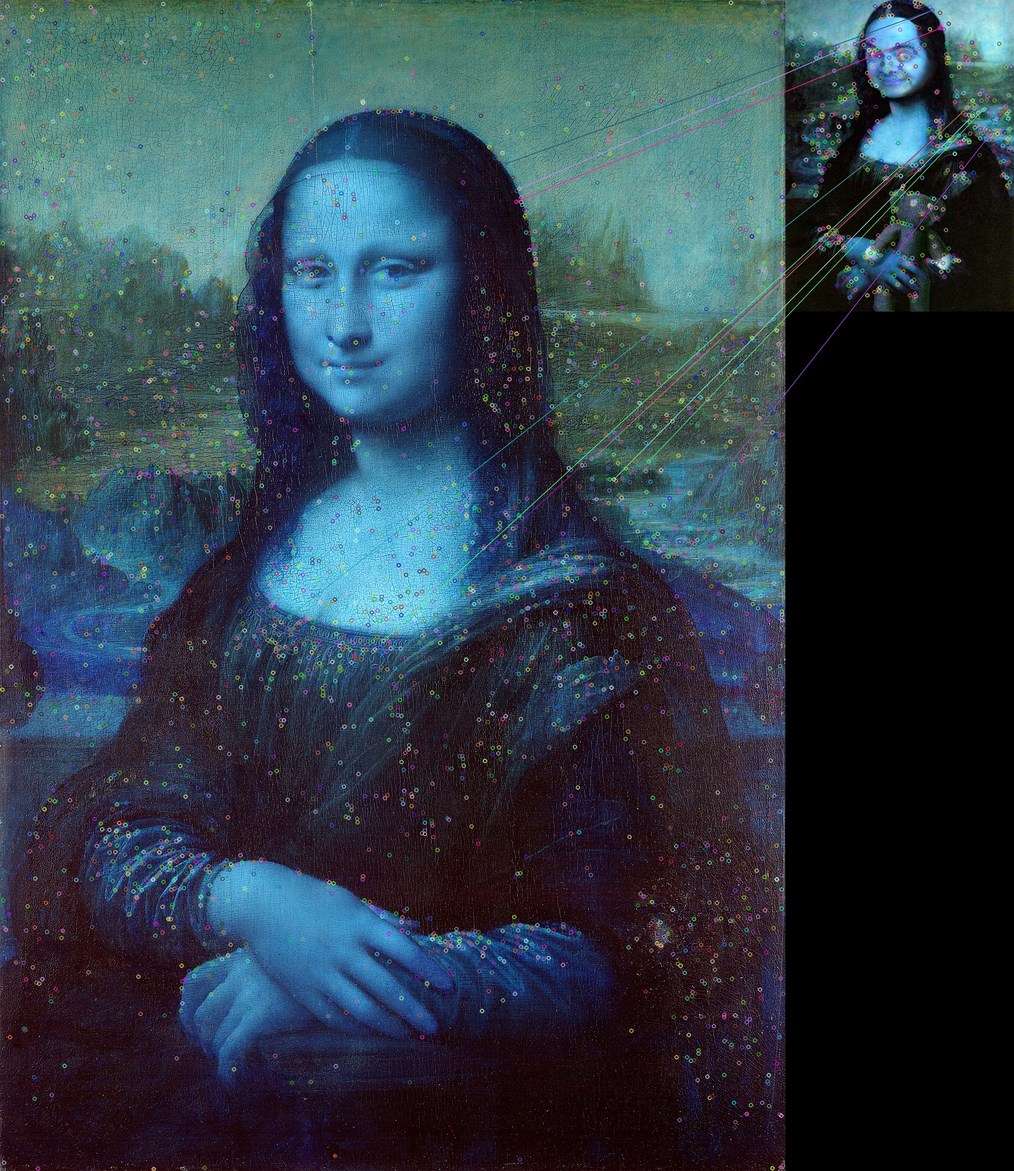
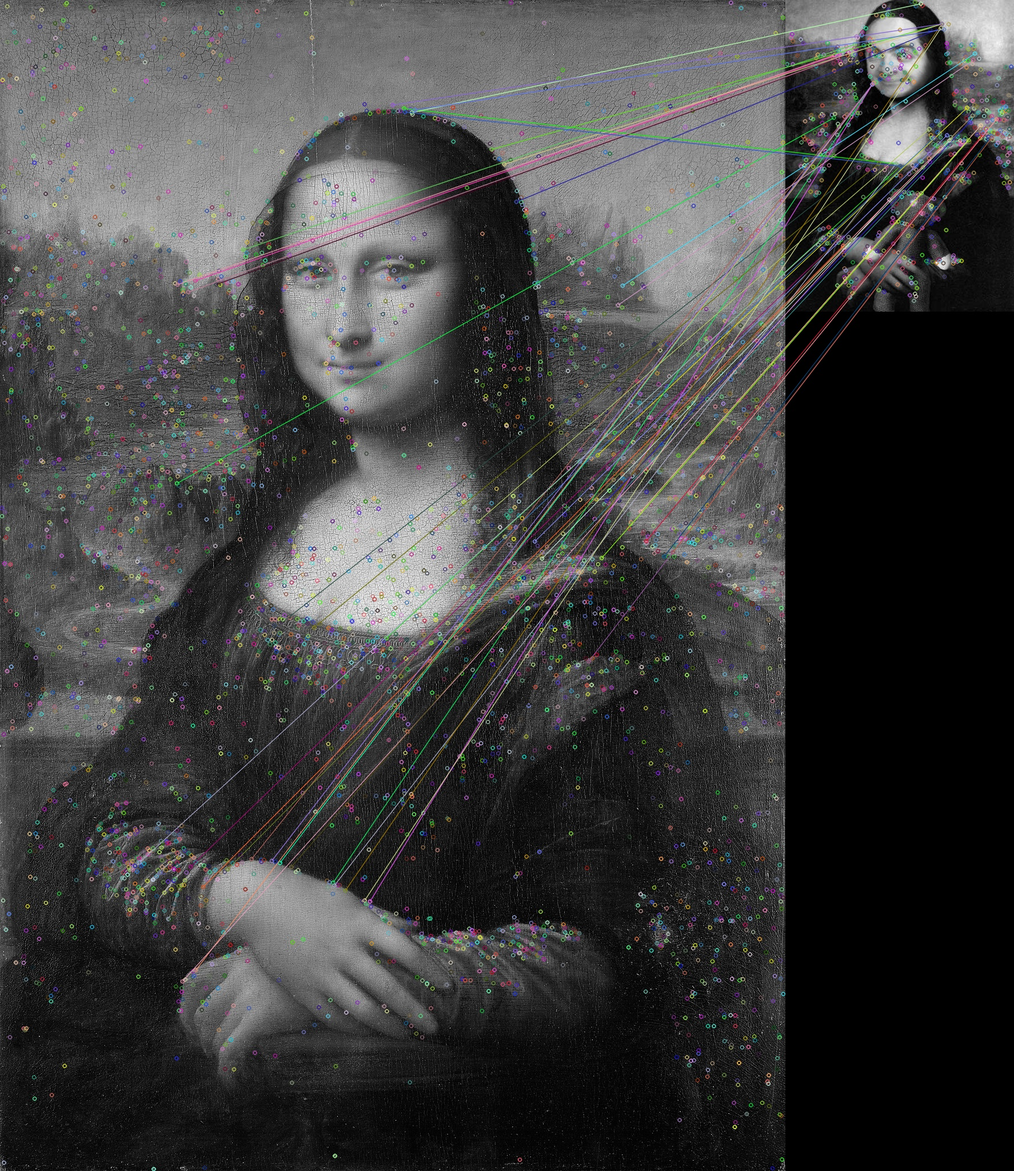
update footer, grayscale and texts

diff --git a/templates/comparison.html b/templates/comparison.html
@@ -5,7 +5,7 @@
     <link rel="stylesheet" href="{{ url_for('static', filename='css/standard.css') }}">
     <link rel="stylesheet" href="{{ url_for('static', filename='css/comparison.css') }}">
     <link href="https://fonts.googleapis.com/css2?family=Libre+Franklin:wght@300&family=Rubik&display=swap" rel="stylesheet">
-
+    <link rel="stylesheet" href="https://maxcdn.bootstrapcdn.com/font-awesome/4.4.0/css/font-awesome.min.css">
     <title>Comparison</title>
 </head>
 <body>
@@ -191,7 +191,7 @@
                         matching them between the two images.</p>
                     <p>Popular feature extraction algorithms include Scale-Invariant Feature Transform (SIFT),
                         Speeded-Up Robust Features (SURF), and Oriented FAST and Rotated BRIEF (ORB).</p>
-                    <p>The similarity score is based on the number of matches, in this case it is the match count and
+                    <p>The similarity score is based on the number of matches between the two images, in this case it is the match count and
                         here SIFT was used due to its high accuracy.</p>
                 </div>
             </div>
@@ -239,9 +239,9 @@
                         represents the amount of mutual information or shared information between the two images. </p>
                     <p>Mutual Information is a measure of statistical dependence that quantifies how much knowing the
                         pixel intensities in one image reduces the uncertainty about the pixel intensities in the other image.</p>
-                    <p>the obtained MI score can be interpreted as the level of similarity or similarity between the two
-                        images based on their pixel intensities, where a higher MI score indicates a higher level of
-                        shared information and therefore suggests a greater degree of similarity between the images.</p>
+                    <p>The obtained MI score can be interpreted as the level of similarity between the two images
+                        based on their pixel intensities, where a higher MI score indicates a higher level of shared
+                        information and therefore suggests a greater degree of similarity between the images.</p>
                 </div>
             </div>
         </div>
@@ -252,7 +252,22 @@
     </main>
 
     <footer>
-    
+        <div class="footer_links">
+            <a class="footer_button" href="https://www.linkedin.com/in/guilherme-pguimar%C3%A3es/">
+                <svg xmlns="http://www.w3.org/2000/svg" viewBox="0 0 448 512"><path d="M416 32H31.9C14.3 32 0 46.5 0 64.3v383.4C0 465.5 14.3 480 31.9 480H416c17.6 0 32-14.5 32-32.3V64.3c0-17.8-14.4-32.3-32-32.3zM135.4 416H69V202.2h66.5V416zm-33.2-243c-21.3 0-38.5-17.3-38.5-38.5S80.9 96 102.2 96c21.2 0 38.5 17.3 38.5 38.5 0 21.3-17.2 38.5-38.5 38.5zm282.1 243h-66.4V312c0-24.8-.5-56.7-34.5-56.7-34.6 0-39.9 27-39.9 54.9V416h-66.4V202.2h63.7v29.2h.9c8.9-16.8 30.6-34.5 62.9-34.5 67.2 0 79.7 44.3 79.7 101.9V416z"/></svg>
+                
+
+            </a>
+            
+            <a target="_blank" class="footer_button" href="https://github.com/guilherme-pg">
+                <svg class="aaa" xmlns="http://www.w3.org/2000/svg" viewBox="0 0 496 512"><path
+                        d="M165.9 397.4c0 2-2.3 3.6-5.2 3.6-3.3.3-5.6-1.3-5.6-3.6 0-2 2.3-3.6 5.2-3.6 3-.3 5.6 1.3 5.6 3.6zm-31.1-4.5c-.7 2 1.3 4.3 4.3 4.9 2.6 1 5.6 0 6.2-2s-1.3-4.3-4.3-5.2c-2.6-.7-5.5.3-6.2 2.3zm44.2-1.7c-2.9.7-4.9 2.6-4.6 4.9.3 2 2.9 3.3 5.9 2.6 2.9-.7 4.9-2.6 4.6-4.6-.3-1.9-3-3.2-5.9-2.9zM244.8 8C106.1 8 0 113.3 0 252c0 110.9 69.8 205.8 169.5 239.2 12.8 2.3 17.3-5.6 17.3-12.1 0-6.2-.3-40.4-.3-61.4 0 0-70 15-84.7-29.8 0 0-11.4-29.1-27.8-36.6 0 0-22.9-15.7 1.6-15.4 0 0 24.9 2 38.6 25.8 21.9 38.6 58.6 27.5 72.9 20.9 2.3-16 8.8-27.1 16-33.7-55.9-6.2-112.3-14.3-112.3-110.5 0-27.5 7.6-41.3 23.6-58.9-2.6-6.5-11.1-33.3 2.6-67.9 20.9-6.5 69 27 69 27 20-5.6 41.5-8.5 62.8-8.5s42.8 2.9 62.8 8.5c0 0 48.1-33.6 69-27 13.7 34.7 5.2 61.4 2.6 67.9 16 17.7 25.8 31.5 25.8 58.9 0 96.5-58.9 104.2-114.8 110.5 9.2 7.9 17 22.9 17 46.4 0 33.7-.3 75.4-.3 83.6 0 6.5 4.6 14.4 17.3 12.1C428.2 457.8 496 362.9 496 252 496 113.3 383.5 8 244.8 8zM97.2 352.9c-1.3 1-1 3.3.7 5.2 1.6 1.6 3.9 2.3 5.2 1 1.3-1 1-3.3-.7-5.2-1.6-1.6-3.9-2.3-5.2-1zm-10.8-8.1c-.7 1.3.3 2.9 2.3 3.9 1.6 1 3.6.7 4.3-.7.7-1.3-.3-2.9-2.3-3.9-2-.6-3.6-.3-4.3.7zm32.4 35.6c-1.6 1.3-1 4.3 1.3 6.2 2.3 2.3 5.2 2.6 6.5 1 1.3-1.3.7-4.3-1.3-6.2-2.2-2.3-5.2-2.6-6.5-1zm-11.4-14.7c-1.6 1-1.6 3.6 0 5.9 1.6 2.3 4.3 3.3 5.6 2.3 1.6-1.3 1.6-3.9 0-6.2-1.4-2.3-4-3.3-5.6-2z"/></svg>
+            </a>
+        </div>
+        <div>
+            <p>All rights reserved TM ©</p>
+        </div>
+        
     </footer>
 </body>
 </html>

diff --git a/templates/home.html b/templates/home.html
@@ -4,10 +4,8 @@
     <meta charset="utf-8">
     <link rel="stylesheet" href="{{ url_for('static', filename='css/standard.css') }}">
     <link rel="stylesheet" href="{{ url_for('static', filename='css/home.css') }}">
-
+    <link href="https://fonts.googleapis.com/css2?family=Libre+Franklin:wght@300&family=Rubik&display=swap" rel="stylesheet">
     <link rel="stylesheet" href="https://maxcdn.bootstrapcdn.com/font-awesome/4.4.0/css/font-awesome.min.css">
-
-    
     <title>Image Comparator</title>
 </head>
 <body>
@@ -32,6 +30,7 @@
         <div class="main_column">
             
             <h1>Image Comparer</h1>
+            <p>Select two images to evaluate the degree of similarity and dissimilarity between them.</p>
     
             <form class="drop_general_zone" id="imageForm" method="POST" action="/process_form" enctype="multipart/form-data">
     
@@ -68,13 +67,13 @@
     <footer>
         <div class="footer_links">
             <a class="footer_button" href="https://www.linkedin.com/in/guilherme-pguimar%C3%A3es/">
-                <svg xmlns="http://www.w3.org/2000/svg" height="40px" viewBox="0 0 448 512"><style>svg{fill:#fafad2}</style><path d="M416 32H31.9C14.3 32 0 46.5 0 64.3v383.4C0 465.5 14.3 480 31.9 480H416c17.6 0 32-14.5 32-32.3V64.3c0-17.8-14.4-32.3-32-32.3zM135.4 416H69V202.2h66.5V416zm-33.2-243c-21.3 0-38.5-17.3-38.5-38.5S80.9 96 102.2 96c21.2 0 38.5 17.3 38.5 38.5 0 21.3-17.2 38.5-38.5 38.5zm282.1 243h-66.4V312c0-24.8-.5-56.7-34.5-56.7-34.6 0-39.9 27-39.9 54.9V416h-66.4V202.2h63.7v29.2h.9c8.9-16.8 30.6-34.5 62.9-34.5 67.2 0 79.7 44.3 79.7 101.9V416z"/></svg>
+                <svg xmlns="http://www.w3.org/2000/svg" viewBox="0 0 448 512"><path d="M416 32H31.9C14.3 32 0 46.5 0 64.3v383.4C0 465.5 14.3 480 31.9 480H416c17.6 0 32-14.5 32-32.3V64.3c0-17.8-14.4-32.3-32-32.3zM135.4 416H69V202.2h66.5V416zm-33.2-243c-21.3 0-38.5-17.3-38.5-38.5S80.9 96 102.2 96c21.2 0 38.5 17.3 38.5 38.5 0 21.3-17.2 38.5-38.5 38.5zm282.1 243h-66.4V312c0-24.8-.5-56.7-34.5-56.7-34.6 0-39.9 27-39.9 54.9V416h-66.4V202.2h63.7v29.2h.9c8.9-16.8 30.6-34.5 62.9-34.5 67.2 0 79.7 44.3 79.7 101.9V416z"/></svg>
                 
 
             </a>
             
             <a target="_blank" class="footer_button" href="https://github.com/guilherme-pg">
-                <svg xmlns="http://www.w3.org/2000/svg" height="40px" viewBox="0 0 496 512"><style>svg{fill:#fafad2}</style><path
+                <svg class="aaa" xmlns="http://www.w3.org/2000/svg" viewBox="0 0 496 512"><path
                         d="M165.9 397.4c0 2-2.3 3.6-5.2 3.6-3.3.3-5.6-1.3-5.6-3.6 0-2 2.3-3.6 5.2-3.6 3-.3 5.6 1.3 5.6 3.6zm-31.1-4.5c-.7 2 1.3 4.3 4.3 4.9 2.6 1 5.6 0 6.2-2s-1.3-4.3-4.3-5.2c-2.6-.7-5.5.3-6.2 2.3zm44.2-1.7c-2.9.7-4.9 2.6-4.6 4.9.3 2 2.9 3.3 5.9 2.6 2.9-.7 4.9-2.6 4.6-4.6-.3-1.9-3-3.2-5.9-2.9zM244.8 8C106.1 8 0 113.3 0 252c0 110.9 69.8 205.8 169.5 239.2 12.8 2.3 17.3-5.6 17.3-12.1 0-6.2-.3-40.4-.3-61.4 0 0-70 15-84.7-29.8 0 0-11.4-29.1-27.8-36.6 0 0-22.9-15.7 1.6-15.4 0 0 24.9 2 38.6 25.8 21.9 38.6 58.6 27.5 72.9 20.9 2.3-16 8.8-27.1 16-33.7-55.9-6.2-112.3-14.3-112.3-110.5 0-27.5 7.6-41.3 23.6-58.9-2.6-6.5-11.1-33.3 2.6-67.9 20.9-6.5 69 27 69 27 20-5.6 41.5-8.5 62.8-8.5s42.8 2.9 62.8 8.5c0 0 48.1-33.6 69-27 13.7 34.7 5.2 61.4 2.6 67.9 16 17.7 25.8 31.5 25.8 58.9 0 96.5-58.9 104.2-114.8 110.5 9.2 7.9 17 22.9 17 46.4 0 33.7-.3 75.4-.3 83.6 0 6.5 4.6 14.4 17.3 12.1C428.2 457.8 496 362.9 496 252 496 113.3 383.5 8 244.8 8zM97.2 352.9c-1.3 1-1 3.3.7 5.2 1.6 1.6 3.9 2.3 5.2 1 1.3-1 1-3.3-.7-5.2-1.6-1.6-3.9-2.3-5.2-1zm-10.8-8.1c-.7 1.3.3 2.9 2.3 3.9 1.6 1 3.6.7 4.3-.7.7-1.3-.3-2.9-2.3-3.9-2-.6-3.6-.3-4.3.7zm32.4 35.6c-1.6 1.3-1 4.3 1.3 6.2 2.3 2.3 5.2 2.6 6.5 1 1.3-1.3.7-4.3-1.3-6.2-2.2-2.3-5.2-2.6-6.5-1zm-11.4-14.7c-1.6 1-1.6 3.6 0 5.9 1.6 2.3 4.3 3.3 5.6 2.3 1.6-1.3 1.6-3.9 0-6.2-1.4-2.3-4-3.3-5.6-2z"/></svg>
             </a>
         </div>

diff --git a/static/css/standard.css b/static/css/standard.css
@@ -45,8 +45,17 @@ footer {
     width: 100%;
     height: 70%;
 }
-.footer_links a {
-    margin: 0 30px 0 30px;
+.footer_button {
+    margin: 30px 30px 0 30px;
+}
+.footer_links svg {
+    fill: #FAFAD2;
+    height: 40px;
+    transition: text-shadow 1s;
+}
+.footer_links svg:active,
+.footer_links svg:hover  {
+    filter: drop-shadow(0 0 1px #FAFAD2);
 }
 footer p {
     color: #FAFAD2;

diff --git a/static/css/home.css b/static/css/home.css
@@ -3,6 +3,10 @@
 }
 h1 {
     color: #620e1f;
+    margin-bottom: 20px;
+}
+p {
+    color: #620e1f;
 }
 
 .drop_general_zone {

diff --git a/image_comparator.py b/image_comparator.py
@@ -94,6 +94,9 @@ def get_feature_em(img_1, img_2, file_name):
     img_1 = np.array(img_1)
     img_2 = np.array(img_2)
 
+    img_1 = cv2.cvtColor(img_1, cv2.COLOR_RGB2GRAY)
+    img_2 = cv2.cvtColor(img_2, cv2.COLOR_RGB2GRAY)
+
     # Detect and compute keypoints and descriptors for both images
     keypoints1, descriptors1 = sift.detectAndCompute(img_1, None)
     keypoints2, descriptors2 = sift.detectAndCompute(img_2, None)
@@ -110,7 +113,7 @@ def get_feature_em(img_1, img_2, file_name):
     # Compute the similarity score based on the number of matches
     similarity = len(matches)
 
-    matched_image = cv2.drawMatches(img_1, keypoints1, img_2, keypoints2, matches[:10], None)
+    matched_image = cv2.drawMatches(img_1, keypoints1, img_2, keypoints2, matches[:50], None)
 
     cv2.imwrite(f"static/images/{file_name}.jpg", matched_image)
 
@@ -121,8 +124,8 @@ def get_feature_em(img_1, img_2, file_name):
 def calculate_ncc(img_1_size, img_2_size):
     image1, image2 = resize_images(img_1_size, img_2_size)
 
-    image1 = np.array(image1)
-    image2 = np.array(image2)
+    image1 = cv2.cvtColor(image1, cv2.COLOR_RGB2GRAY)
+    image2 = cv2.cvtColor(image2, cv2.COLOR_RGB2GRAY)
 
     image1 = image1.astype(np.float64)
     image2 = image2.astype(np.float64)
@@ -153,8 +156,8 @@ def calculate_mi(img_1_size, img_2_size, num_bins=256):
 
     image1, image2 = resize_images(img_1_size, img_2_size)
 
-    image1 = np.array(image1)
-    image2 = np.array(image2)
+    image1 = cv2.cvtColor(image1, cv2.COLOR_RGB2GRAY)
+    image2 = cv2.cvtColor(image2, cv2.COLOR_RGB2GRAY)
 
     # Flatten the images to 1D arrays
     flat_image1 = image1.flatten()
@@ -186,6 +189,14 @@ def calculate_mi(img_1_size, img_2_size, num_bins=256):
     mi = entropy_image1 + entropy_image2 - entropy_joint
 
     return [mi]
+
+# TO IMPROVE:
+# Peak signal-to-noise ratio (PSNR)
+# Feature-based similarity index (FSIM)
+# Information theoretic-based Statistic Similarity Measure (ISSM)
+# Signal to reconstruction error ratio (SRE)
+# Spectral angle mapper (SAM)
+# Universal image quality index (UIQ)
 
 
 def process_data(image_1, image_2):

diff --git a/README.md b/README.md
@@ -1,9 +1,10 @@
 # Image Comparator
 
-
+what it is?
 
 ## **How it works?**
 Install the requirements.txt.</br>
+Preferably in a virtual environment, and in this case I activated it.
 After that, using the prompt in the folder where the app is, type:
 > python app.py
 
